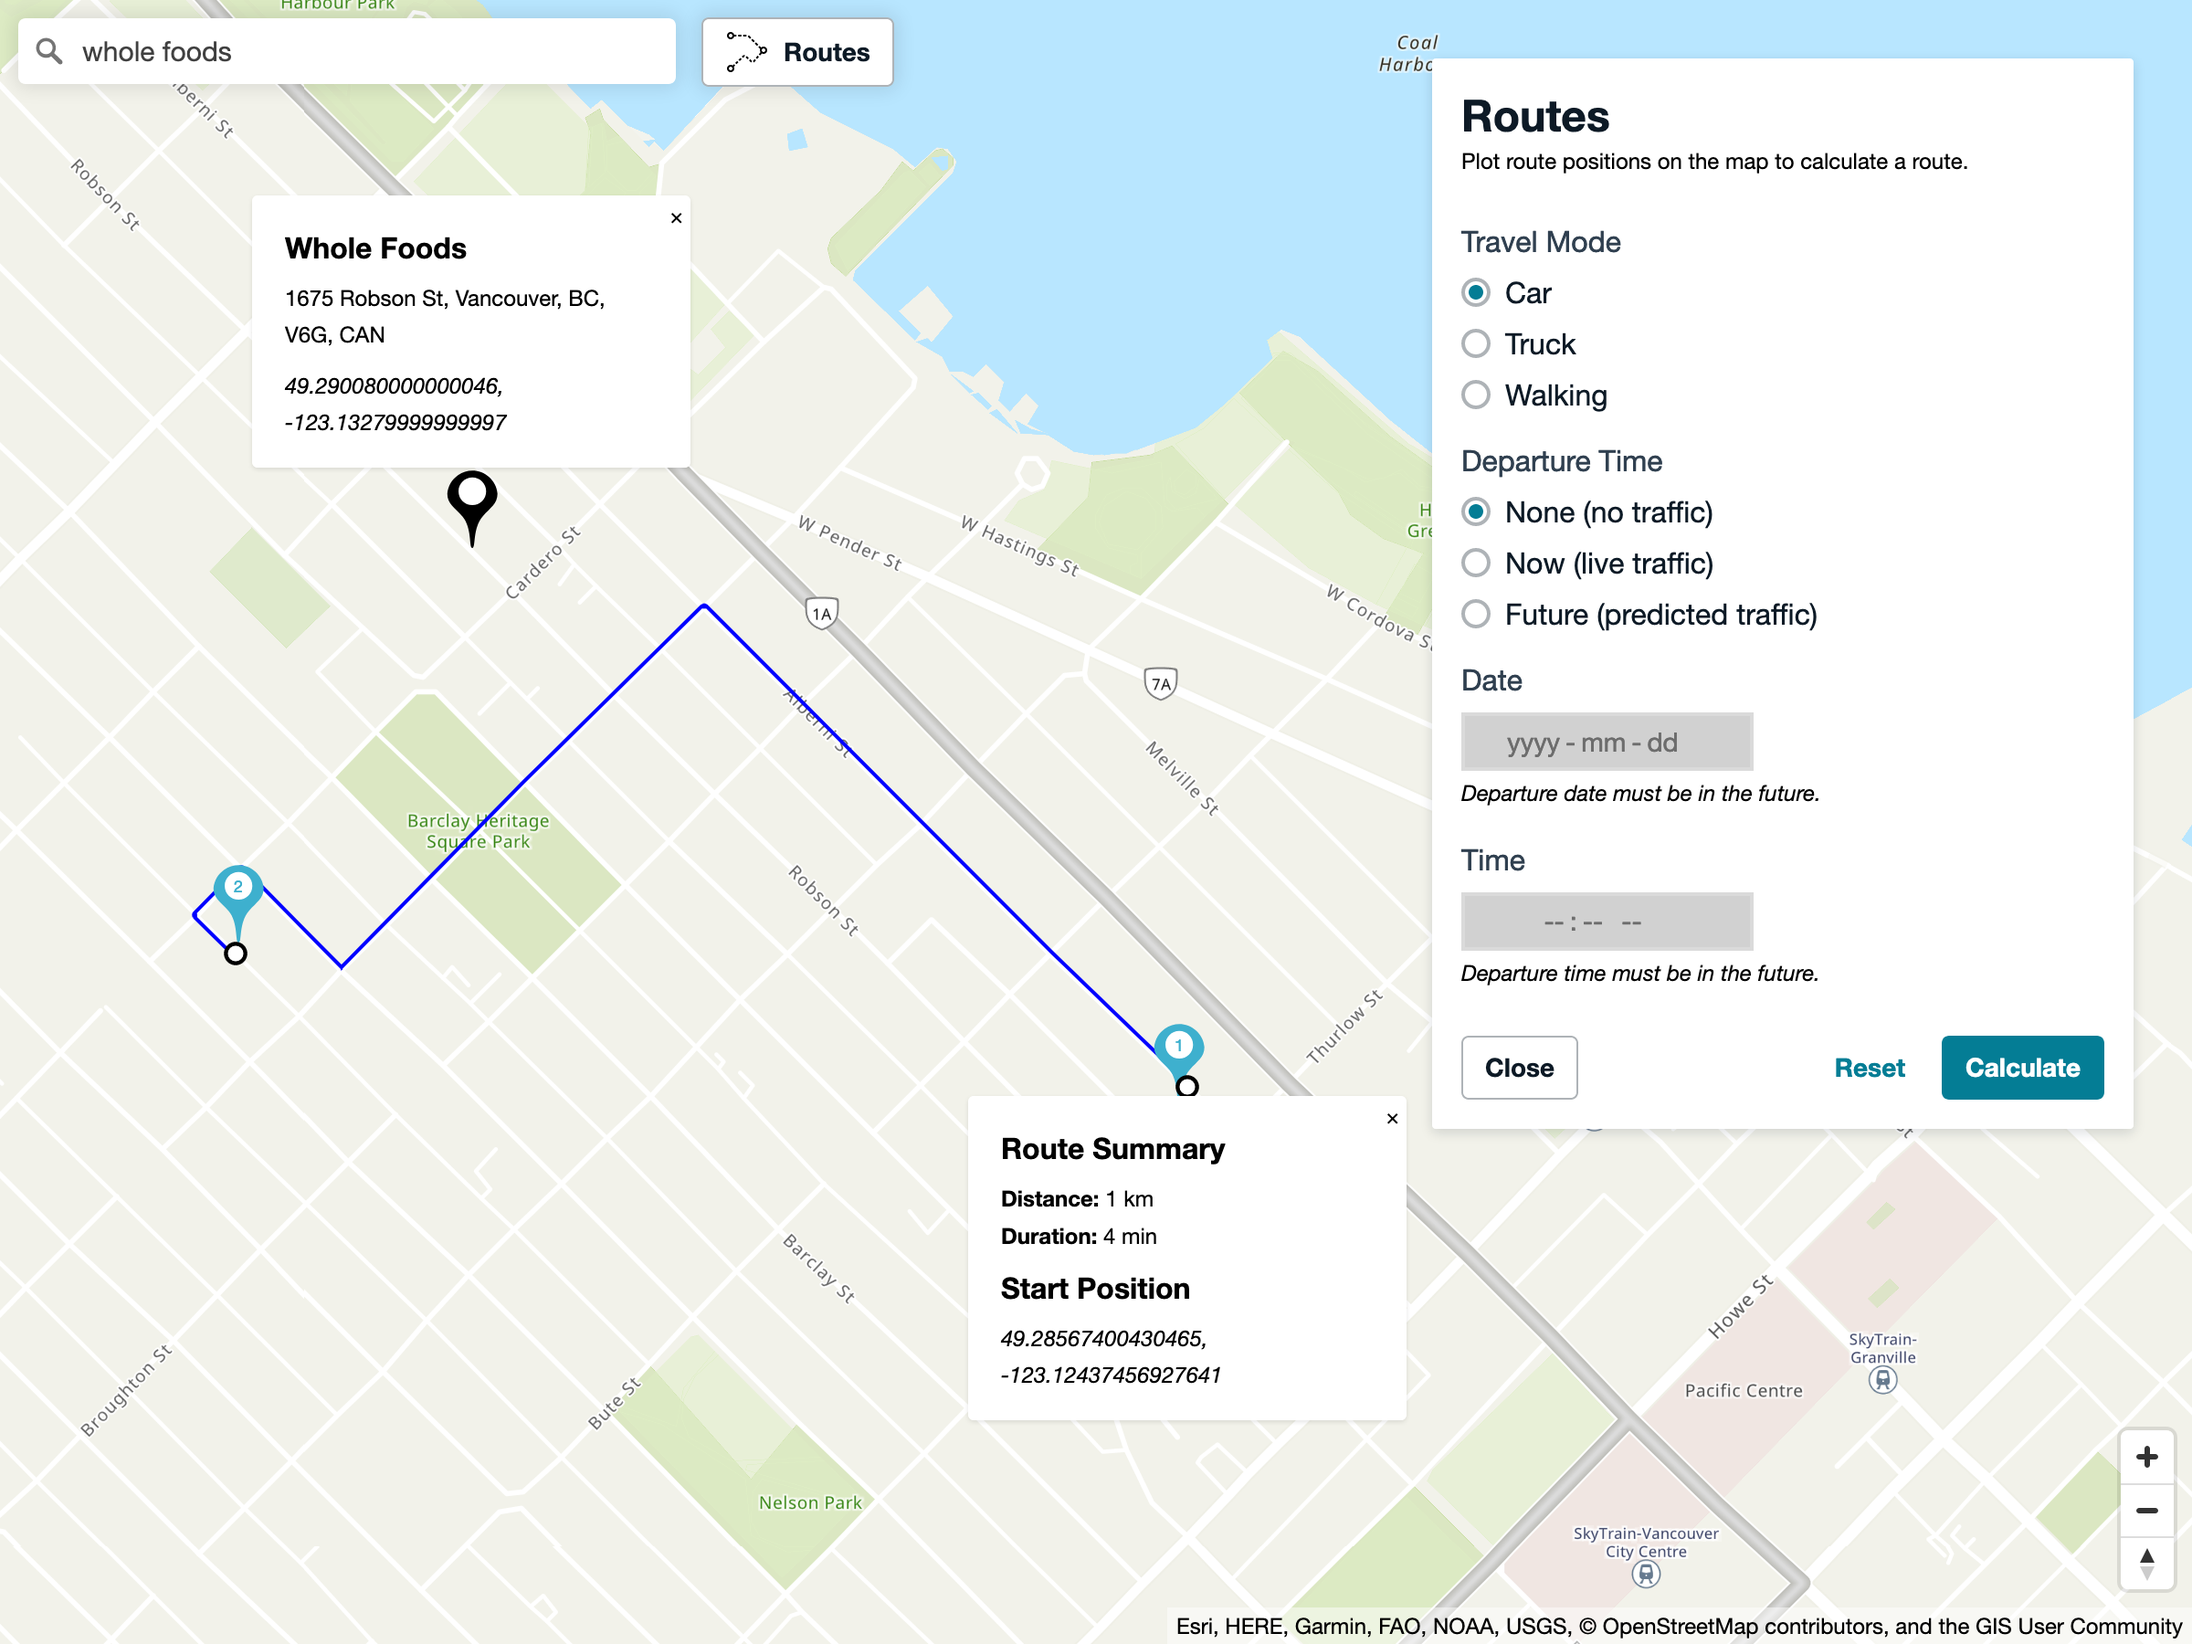
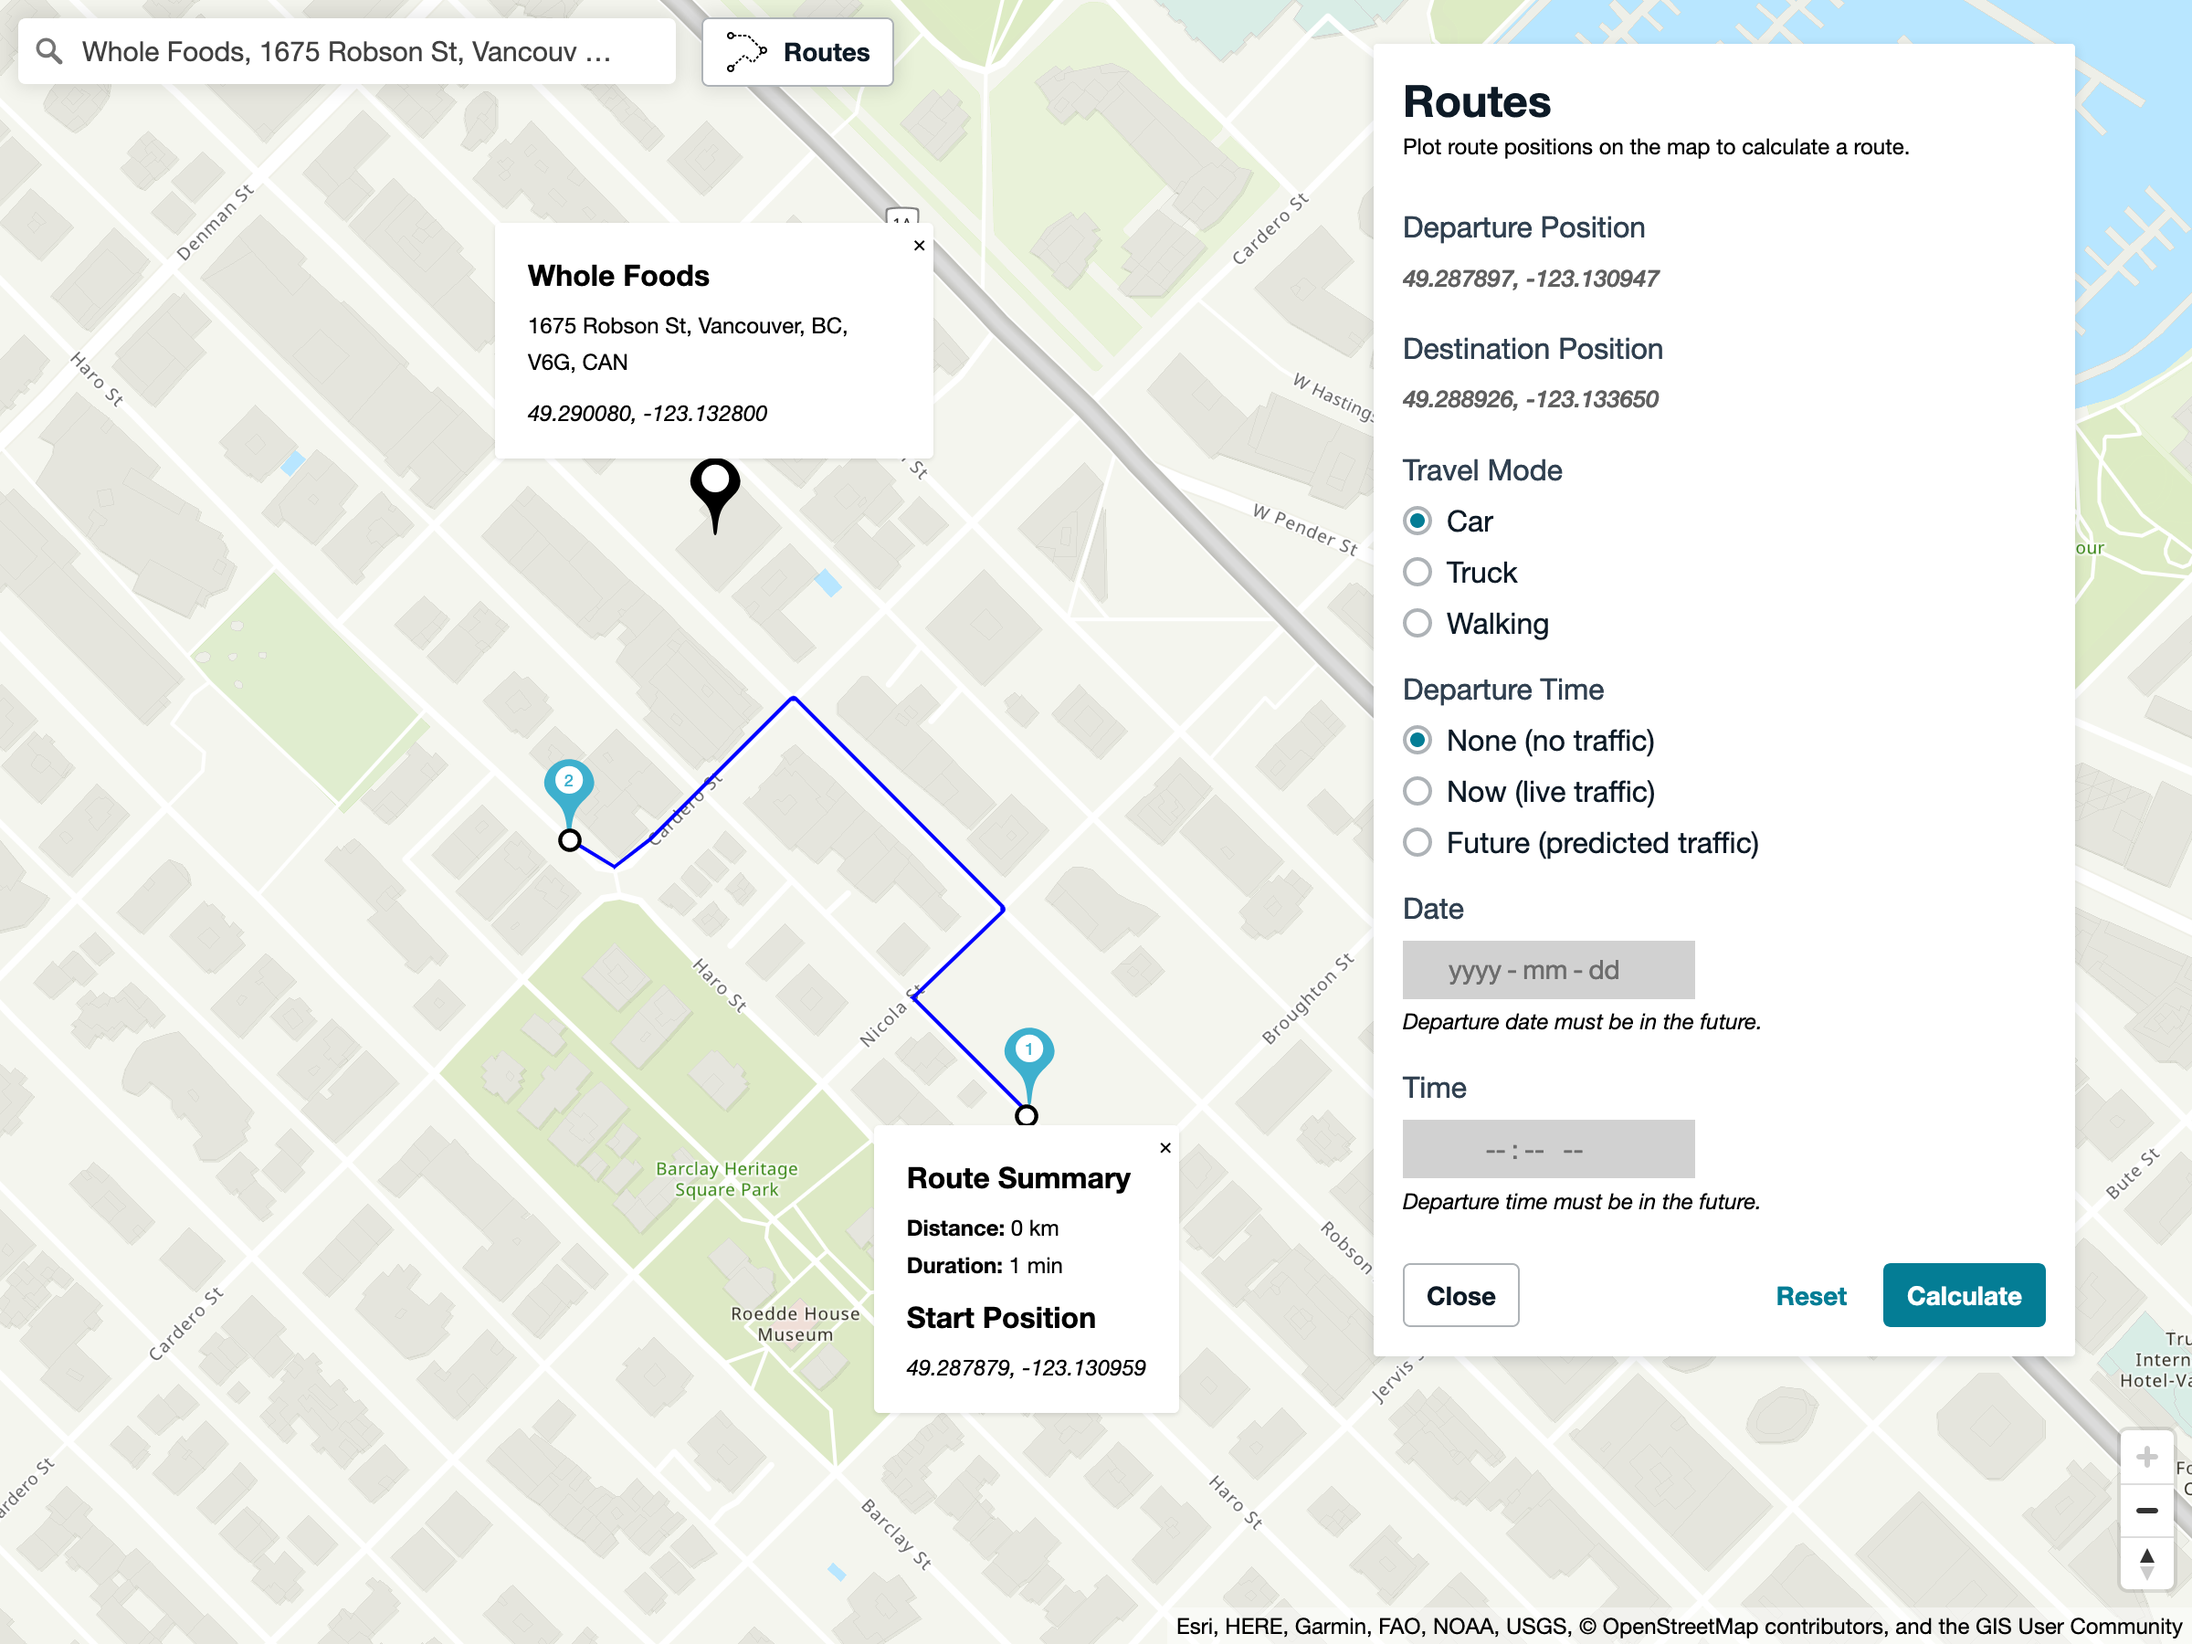
Make revisions based on PR feedback
Fix Routes button SVG not visible.
Highlight step for plotting departure and destination position.
Update README.
Update styles.

diff --git a/amplify-ui-geo-explore/src/components/routes/RoutesLayer.js b/amplify-ui-geo-explore/src/components/routes/RoutesLayer.js
@@ -78,7 +78,7 @@ const RoutesLayer = ({ client, clickedLngLat, onViewportChangeFromLayer }) => {
           style={{ boxShadow: "rgba(0, 0, 0, 0.1) 0px 0px 10px 2px" }}
         >
           <div style={{ display: "flex", width: "24px" }}>
-            <svg viewBox="0 0 48 48" xmlns="http://www.w3.org/2000/svg">
+            <svg viewBox="0 0 48 48" width="100%" height="100%" xmlns="http://www.w3.org/2000/svg">
               <path d="M14.293,7 L17.793,7 L17.793,5 L14.293,5 L14.293,7 Z M19.793,7 L23.293,7 L23.293,5 L19.793,5 L19.793,7 Z M32.352,14.813 L33.768,13.4 L36.24,15.877 L34.824,17.291 L32.352,14.813 Z M25.142,7.587 C25.018,7.462 24.877,7.355 24.725,7.268 L25.719,5.532 C26.025,5.708 26.308,5.924 26.558,6.175 L28.47,8.091 L27.054,9.503 L25.142,7.587 Z M28.467,10.919 L29.883,9.506 L32.355,11.984 L30.939,13.397 L28.467,10.919 Z M13.148,33.778 L14.539,35.216 L12.382,37.301 L10.991,35.862 L13.148,33.778 Z M29.253,33.532 C29.312,33.586 29.379,33.635 29.45,33.674 L28.483,35.424 C28.272,35.308 28.075,35.166 27.897,35.002 L26.048,33.294 L27.405,31.825 L29.253,33.532 Z M19.112,28.017 C19.734,27.415 20.597,27.113 21.453,27.186 L21.285,29.179 C20.957,29.174 20.689,29.274 20.502,29.455 L19.572,30.353 L18.184,28.914 L19.112,28.017 Z M23.732,28.433 L25.937,30.468 L24.579,31.937 L22.375,29.902 L23.732,28.433 Z M16.746,30.304 L18.135,31.742 L15.977,33.827 L14.588,32.388 L16.746,30.304 Z M6,44 C4.897,44 4,43.103 4,42 C4,40.897 4.897,40 6,40 C7.103,40 8,40.897 8,42 C8,43.103 7.103,44 6,44 L6,44 Z M9.553,37.252 L8.13,38.627 C7.512,38.235 6.784,38 6,38 C3.794,38 2,39.794 2,42 C2,44.206 3.794,46 6,46 C8.206,46 10,44.206 10,42 C10,41.305 9.807,40.661 9.493,40.091 L10.943,38.69 L9.553,37.252 Z M32.179,31.729 L33.69,33.039 L32.199,34.761 C31.96,35.036 31.679,35.263 31.36,35.435 L30.407,33.677 C30.513,33.62 30.607,33.543 30.688,33.451 L32.179,31.729 Z M35.452,27.949 L36.964,29.258 L35,31.526 L33.488,30.217 L35.452,27.949 Z M6,4 C7.103,4 8,4.897 8,6 C8,7.103 7.103,8 6,8 C4.897,8 4,7.103 4,6 C4,4.897 4.897,4 6,4 L6,4 Z M6,10 C7.858,10 9.411,8.72 9.858,7 L12.293,7 L12.293,5 L9.858,5 C9.411,3.28 7.858,2 6,2 C3.794,2 2,3.794 2,6 C2,8.206 3.794,10 6,10 L6,10 Z M42,24 C40.897,24 40,23.103 40,22 C40,20.897 40.897,20 42,20 C43.103,20 44,20.897 44,22 C44,23.103 43.103,24 42,24 L42,24 Z M42,18 C40.988,18 40.073,18.39 39.368,19.012 L37.652,17.293 L36.236,18.706 L38.233,20.707 C38.093,21.115 38,21.545 38,22 C38,22.822 38.25,23.587 38.678,24.223 L36.761,26.437 L38.272,27.747 L40.182,25.542 C40.729,25.825 41.342,26 42,26 C44.206,26 46,24.206 46,22 C46,19.794 44.206,18 42,18 L42,18 Z"></path>
             </svg>
           </div>

diff --git a/amplify-ui-geo-explore/src/components/routes/RoutesPanel.js b/amplify-ui-geo-explore/src/components/routes/RoutesPanel.js
@@ -12,6 +12,16 @@ const initialState = {
   departureTime: "",
 };
 
+const getDestinationTextColor = (departurePosition, destinationPosition) => {
+  if (!departurePosition && !destinationPosition) {
+    return "#cacaca";
+  } else if (departurePosition && !destinationPosition) {
+    return "#3eb0ce";
+  } else {
+    return "#606060";
+  }
+};
+
 // Popup panel to calculate route
 const RoutesPanel = ({ onCalculate, onReset, onClose, departurePosition, destinationPosition }) => {
   const [travelMode, setTravelMode] = useState(initialState.travelMode);
@@ -63,11 +73,11 @@ const RoutesPanel = ({ onCalculate, onReset, onClose, departurePosition, destina
         <div className={styles.content}>
           <div className={styles.field}>
             <div className={styles.field__label}>Departure Position</div>
-            <em className={styles.field__coordinates}>{departurePosition ? departurePosition : "Click on the map to set the position"}</em>
+            <em className={styles.field__coordinates} style={{ color: !departurePosition ? "#3eb0ce" : "#606060" }}>{departurePosition ? departurePosition : "Click on the map to set the position"}</em>
           </div>
           <div className={styles.field}>
             <div className={styles.field__label}>Destination Position</div>
-            <em className={styles.field__coordinates}>{destinationPosition ? destinationPosition : "Click on the map to set the position"}</em>
+            <em className={styles.field__coordinates} style={{ color: getDestinationTextColor(departurePosition, destinationPosition) }}>{destinationPosition ? destinationPosition : "Click on the map to set the position"}</em>
           </div>
           <RadioGroupField
             label="Travel Mode"

diff --git a/amplify-ui-geo-explore/src/components/routes/RoutesPanel.module.css b/amplify-ui-geo-explore/src/components/routes/RoutesPanel.module.css
@@ -5,8 +5,8 @@ SPDX-License-Identifier: MIT-0
 
 .wrapper {
   position: absolute;
-  top: 2rem;
-  right: 2rem;
+  top: 1.5rem;
+  right: 4rem;
   width: 24rem;
   z-index: 3;
   user-select: text;
@@ -41,19 +41,20 @@ SPDX-License-Identifier: MIT-0
   margin: 0.5rem 0 0.15rem 0;
   font-size: 0.8rem;
   font-weight: 500;
-  color: #606060;
 }
 
 .field__input {
   margin: 0.5rem 0 0.15rem 0;
   max-width: 10rem;
   border-style: solid;
+  border-color: #858585;
   padding: 0.25rem 1rem;
   text-align: center;
   font-size: 0.9rem;
 }
 
 .field__input:disabled {
+  border-color: #d1d1d1;
   background: #d1d1d1;
 }
 

diff --git a/amplify-ui-geo-explore/README.md b/amplify-ui-geo-explore/README.md
@@ -72,7 +72,22 @@ App has been tested on Node.js v16.13.2 and NPM v8.1.2
 
 ## Important notes
 
-This project uses [aliasing in webpack](https://webpack.js.org/configuration/resolve/#resolvealias) to alias `react-map-gl`'s Mapbox GL dependency to [MapLibre GL JS](https://maplibre.org/), as `react-map-gl` depends on `mapbox-gl@^2` by default, which is **NOT** compatible with Amazon Location Service, as it requires a Mapbox API key. See the [`react-map-gl guide`](https://visgl.github.io/react-map-gl/docs/get-started/get-started#using-with-a-mapbox-gl-fork) and [`webpack.config.js`](webpack.config.js#L21-L24) to see how the aliasing works.
+* This project uses [aliasing in webpack](https://webpack.js.org/configuration/resolve/#resolvealias) to alias `react-map-gl`'s Mapbox GL dependency to [MapLibre GL JS](https://maplibre.org/), as `react-map-gl` depends on `mapbox-gl@^2` by default, which is **NOT** compatible with Amazon Location Service, as it requires a Mapbox API key. See the [`react-map-gl guide`](https://visgl.github.io/react-map-gl/docs/get-started/get-started#using-with-a-mapbox-gl-fork) and [`webpack.config.js`](webpack.config.js#L21-L24) to see how the aliasing works.
+
+
+* You may see the following AuthError in your browser's developer console:
+    ```
+    AuthError - 
+    Error: Amplify has not been configured correctly. 
+    The configuration object is missing required auth properties.
+    This error is typically caused by one of the following scenarios:
+
+    1. Did you run `amplify push` after adding auth via `amplify add auth`?
+        See https://aws-amplify.github.io/docs/js/authentication#amplify-project-setup for more information
+
+    2. This could also be caused by multiple conflicting versions of amplify packages, see (https://docs.amplify.aws/lib/troubleshooting/upgrading/q/platform/js) for help upgrading Amplify packages.
+    ```
+    This is currently a [known issue](https://github.com/aws-amplify/amplify-js/issues/9845) in the Amplify Auth library that is requiring an Amazon Cognito user pool to be configured. Since this app is set up to allow unauthenticated identities, no user pool is needed. This does not affect the behaviour of the app other than the error appearing in the console.
 
 ## Security
 
